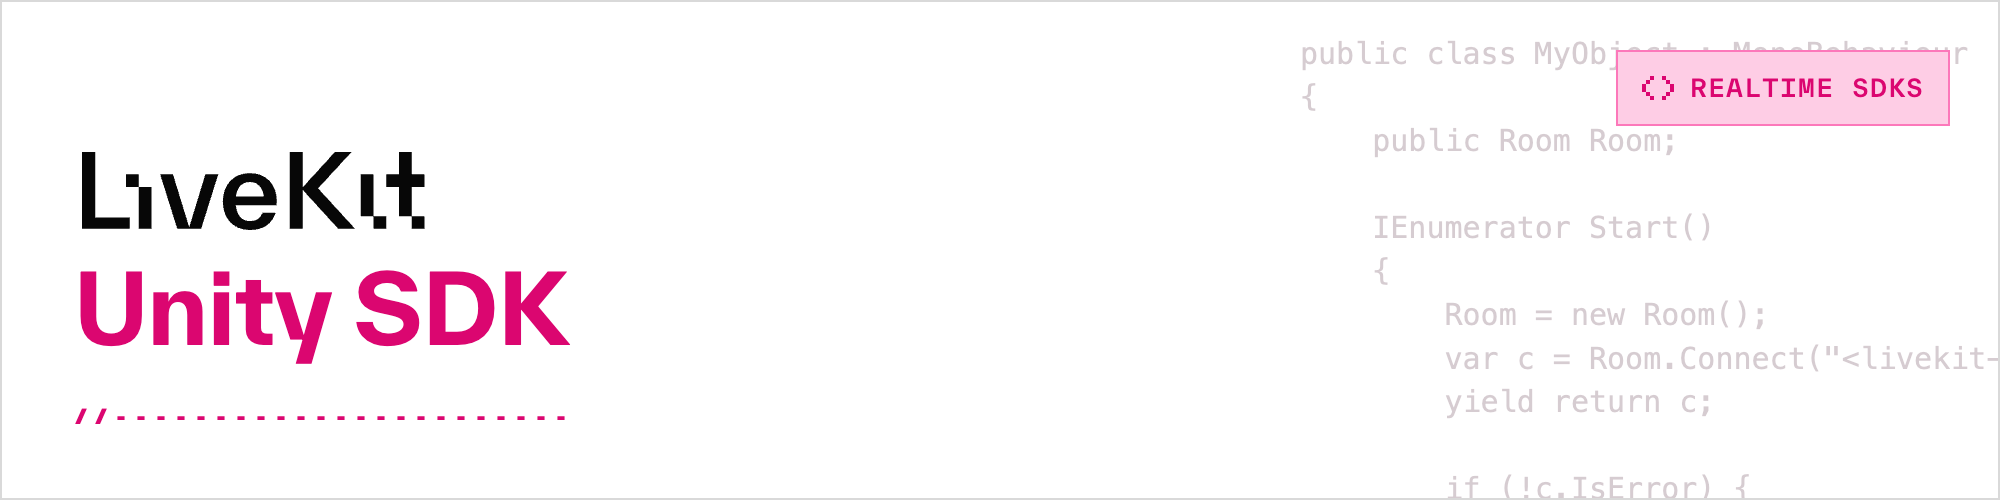
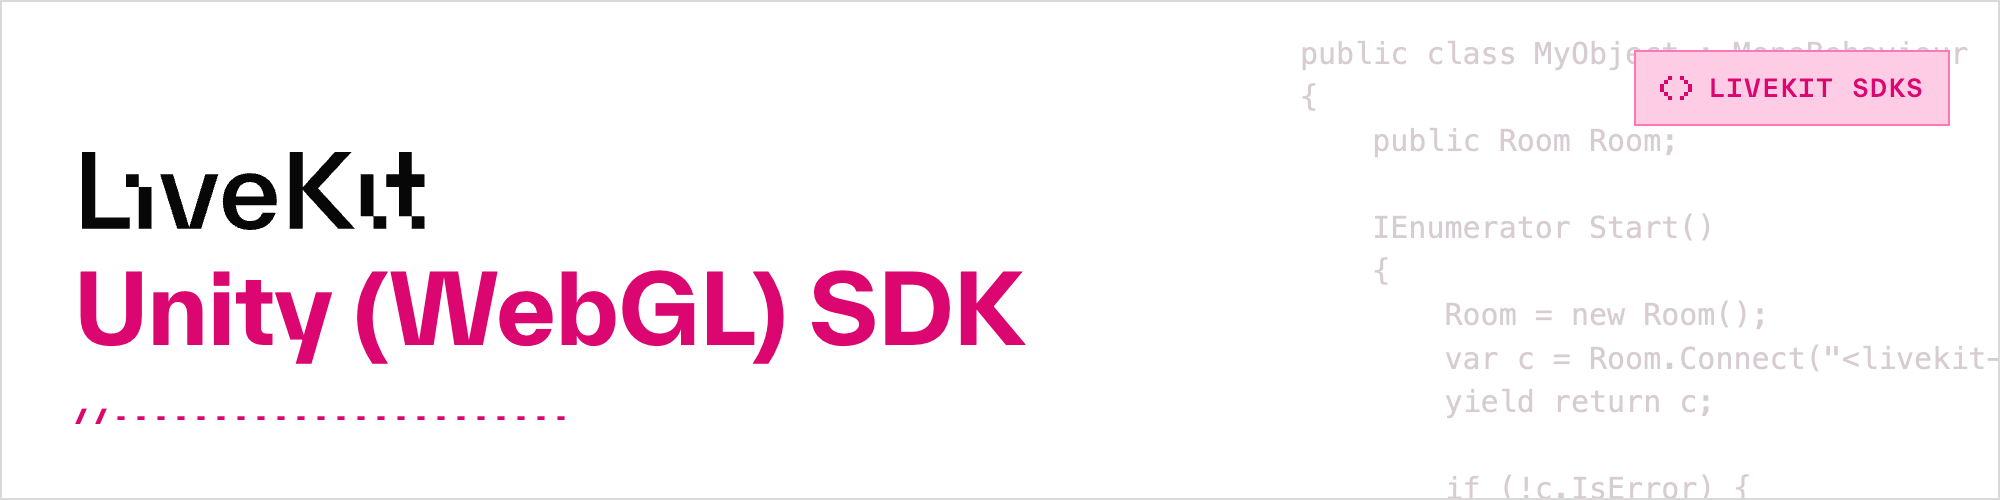
update readme (#66)

Changed region(s): [[0.155, 0.54, 0.527, 0.72], [0.806, 0.09, 0.93, 0.27]]

diff --git a/README.md b/README.md
@@ -11,7 +11,7 @@
 # LiveKit Unity SDK
 
 <!--BEGIN_DESCRIPTION-->
-Use this SDK to add realtime video, audio and data features to your Unity app. By connecting to <a href="https://livekit.io/">LiveKit</a> Cloud or a self-hosted server, you can quickly build applications such as multi-modal AI, live streaming, or video calls with just a few lines of code.
+Use this SDK to add realtime video, audio and data features to your Unity (WebGL) app. By connecting to <a href="https://livekit.io/">LiveKit</a> Cloud or a self-hosted server, you can quickly build applications such as multi-modal AI, live streaming, or video calls with just a few lines of code.
 <!--END_DESCRIPTION-->
 
 ## Docs
@@ -94,9 +94,10 @@ yield return Room.LocalParticipant.PublishData(Encoding.ASCII.GetBytes("This is 
 <br/><table>
 <thead><tr><th colspan="2">LiveKit Ecosystem</th></tr></thead>
 <tbody>
-<tr><td>Realtime SDKs</td><td><a href="https://github.com/livekit/components-js">React Components</a> · <a href="https://github.com/livekit/client-sdk-js">Browser</a> · <a href="https://github.com/livekit/components-swift">Swift Components</a> · <a href="https://github.com/livekit/client-sdk-swift">iOS/macOS/visionOS</a> · <a href="https://github.com/livekit/client-sdk-android">Android</a> · <a href="https://github.com/livekit/client-sdk-flutter">Flutter</a> · <a href="https://github.com/livekit/client-sdk-react-native">React Native</a> · <a href="https://github.com/livekit/rust-sdks">Rust</a> · <a href="https://github.com/livekit/node-sdks">Node.js</a> · <a href="https://github.com/livekit/python-sdks">Python</a> · <b>Unity (web)</b> · <a href="https://github.com/livekit/client-sdk-unity">Unity (beta)</a></td></tr><tr></tr>
-<tr><td>Server APIs</td><td><a href="https://github.com/livekit/node-sdks">Node.js</a> · <a href="https://github.com/livekit/server-sdk-go">Golang</a> · <a href="https://github.com/livekit/server-sdk-ruby">Ruby</a> · <a href="https://github.com/livekit/server-sdk-kotlin">Java/Kotlin</a> · <a href="https://github.com/livekit/python-sdks">Python</a> · <a href="https://github.com/livekit/rust-sdks">Rust</a> · <a href="https://github.com/agence104/livekit-server-sdk-php">PHP (community)</a></td></tr><tr></tr>
-<tr><td>Agents Frameworks</td><td><a href="https://github.com/livekit/agents">Python</a> · <a href="https://github.com/livekit/agent-playground">Playground</a></td></tr><tr></tr>
+<tr><td>LiveKit SDKs</td><td><a href="https://github.com/livekit/client-sdk-js">Browser</a> · <a href="https://github.com/livekit/client-sdk-swift">iOS/macOS/visionOS</a> · <a href="https://github.com/livekit/client-sdk-android">Android</a> · <a href="https://github.com/livekit/client-sdk-flutter">Flutter</a> · <a href="https://github.com/livekit/client-sdk-react-native">React Native</a> · <a href="https://github.com/livekit/rust-sdks">Rust</a> · <a href="https://github.com/livekit/node-sdks">Node.js</a> · <a href="https://github.com/livekit/python-sdks">Python</a> · <a href="https://github.com/livekit/client-sdk-unity">Unity</a> · <b>Unity (WebGL)</b></td></tr><tr></tr>
+<tr><td>Server APIs</td><td><a href="https://github.com/livekit/node-sdks">Node.js</a> · <a href="https://github.com/livekit/server-sdk-go">Golang</a> · <a href="https://github.com/livekit/server-sdk-ruby">Ruby</a> · <a href="https://github.com/livekit/server-sdk-kotlin">Java/Kotlin</a> · <a href="https://github.com/livekit/python-sdks">Python</a> · <a href="https://github.com/livekit/rust-sdks">Rust</a> · <a href="https://github.com/agence104/livekit-server-sdk-php">PHP (community)</a> · <a href="https://github.com/pabloFuente/livekit-server-sdk-dotnet">.NET (community)</a></td></tr><tr></tr>
+<tr><td>UI Components</td><td><a href="https://github.com/livekit/components-js">React</a> · <a href="https://github.com/livekit/components-android">Android Compose</a> · <a href="https://github.com/livekit/components-swift">SwiftUI</a></td></tr><tr></tr>
+<tr><td>Agents Frameworks</td><td><a href="https://github.com/livekit/agents">Python</a> · <a href="https://github.com/livekit/agents-js">Node.js</a> · <a href="https://github.com/livekit/agent-playground">Playground</a></td></tr><tr></tr>
 <tr><td>Services</td><td><a href="https://github.com/livekit/livekit">LiveKit server</a> · <a href="https://github.com/livekit/egress">Egress</a> · <a href="https://github.com/livekit/ingress">Ingress</a> · <a href="https://github.com/livekit/sip">SIP</a></td></tr><tr></tr>
 <tr><td>Resources</td><td><a href="https://docs.livekit.io">Docs</a> · <a href="https://github.com/livekit-examples">Example apps</a> · <a href="https://livekit.io/cloud">Cloud</a> · <a href="https://docs.livekit.io/home/self-hosting/deployment">Self-hosting</a> · <a href="https://github.com/livekit/livekit-cli">CLI</a></td></tr>
 </tbody>
